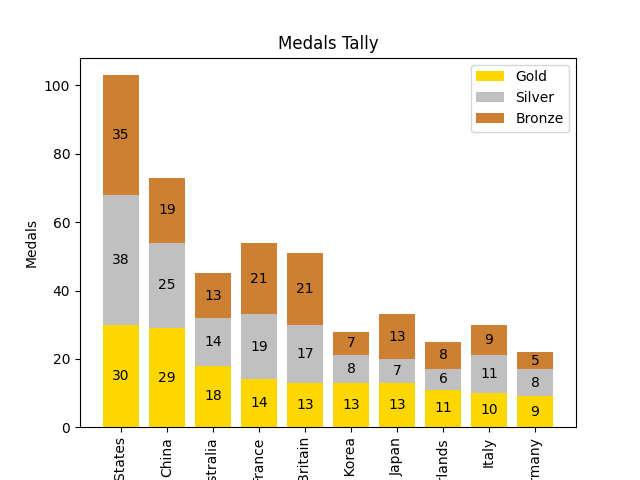
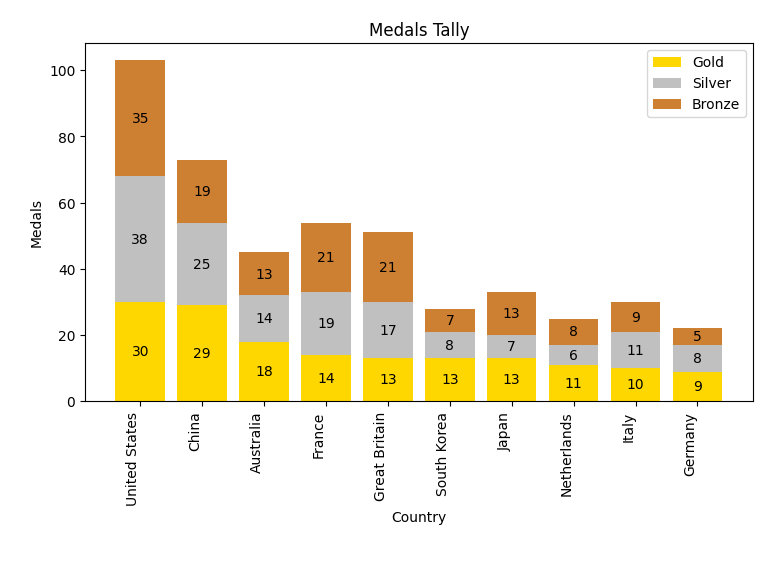
adjusting layout

diff --git a/main.py b/main.py
@@ -33,7 +33,8 @@ def plot_medals_tally(df):
     plt.title('Medals Tally')
     plt.legend()
 
-    plt.xticks(rotation=90)  # Rotate country names for better readability
+    plt.xticks(rotation=90, ha='right')  # Rotate country names for better readability and align them to the right
+    plt.tight_layout()  # Adjust the spacing between subplots to prevent overlapping
     plt.show()
 
 def plot_medals_vs_medals_per_million(df):

diff --git a/Readme.md b/Readme.md
@@ -1,16 +1,15 @@
-# Demographicmedals
+# Demographic Medals
 
 ## Intro
 
-🎯 Explore and explain olympic medal winning using demographic data, espacially medals per capita
+🎯 Explore and start explaining olympic medal winning countries results
 
-🎯 In ~10 min using cutting edge genAI tools 
+🎯 Do it in ~10 min using cutting edge genAI tools 
 - Github Copilot
 - Copilot for web
 
 ## Reasoning with AI
 
----
 
 **You:**
 
@@ -110,7 +109,7 @@ def plot_medals_tally(df)
 ```
 ![imgaeTally](graphs/medaltally.png)
 
-*what's worth noticing is that GitHub Copilot understood the context and even propose to color stack bar accordingly. I had to iterate in order to display medal count*
+*what's worth noticing is that GitHub Copilot understood the context and even propose to stack bar's color accordingly. I had to iterate in order to display medal count*
 
 After that, cracking the medal per cap data display
 ```
